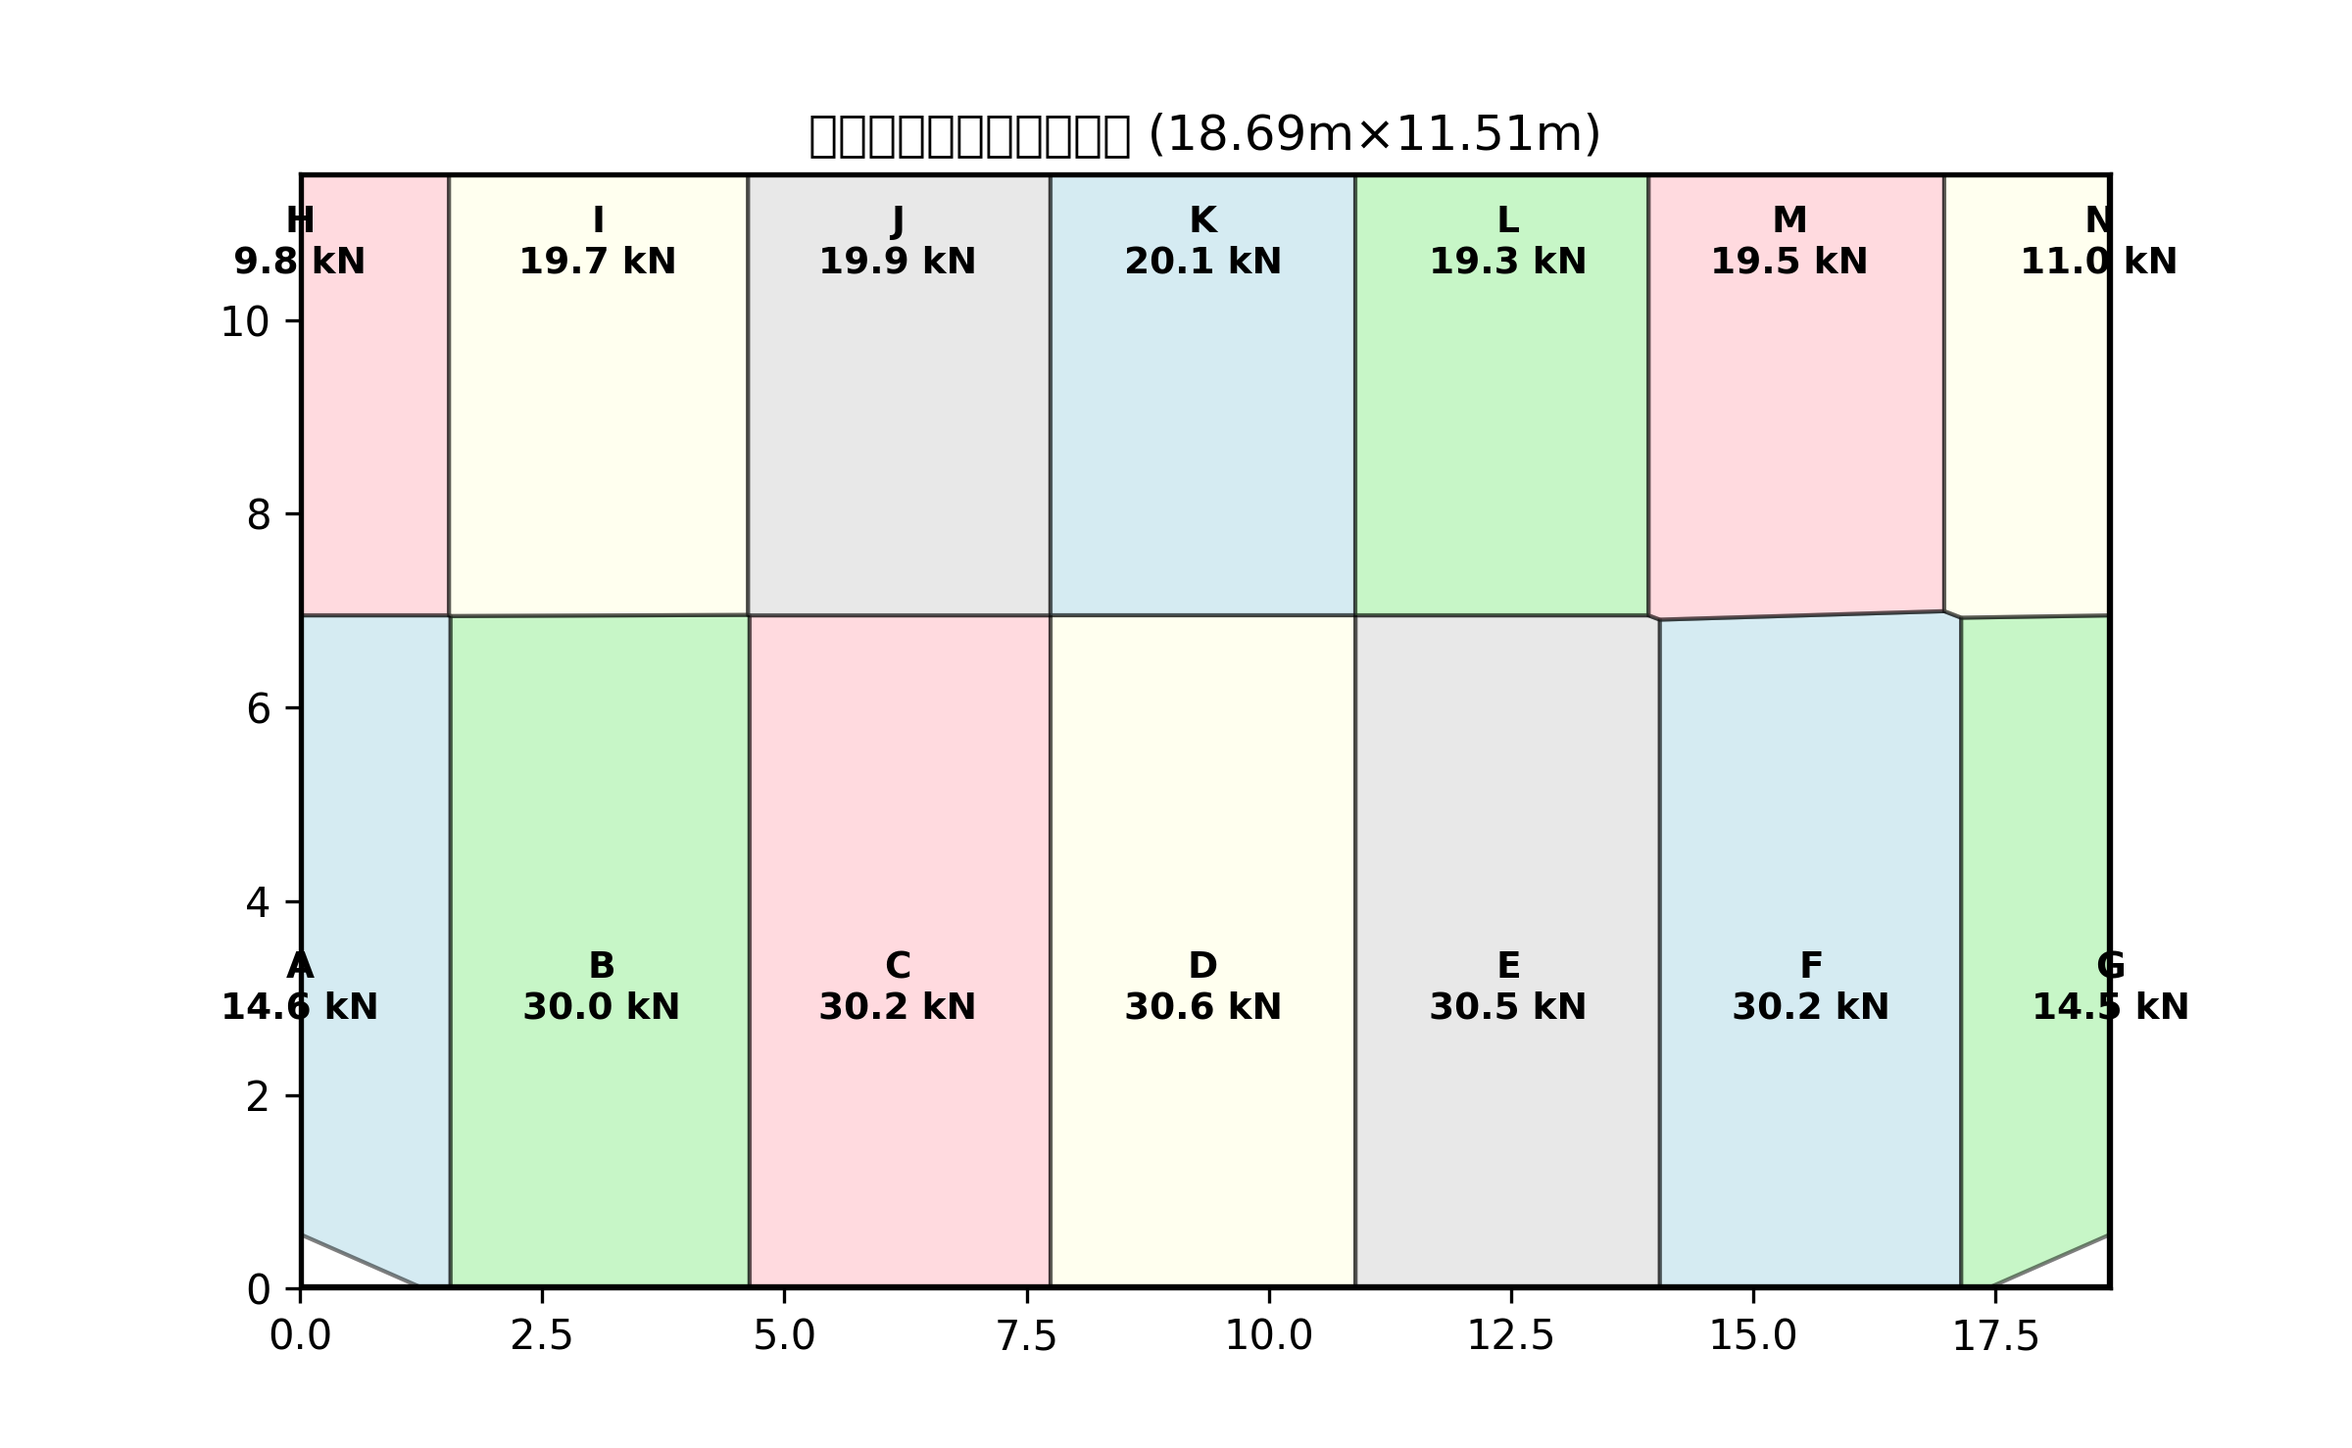
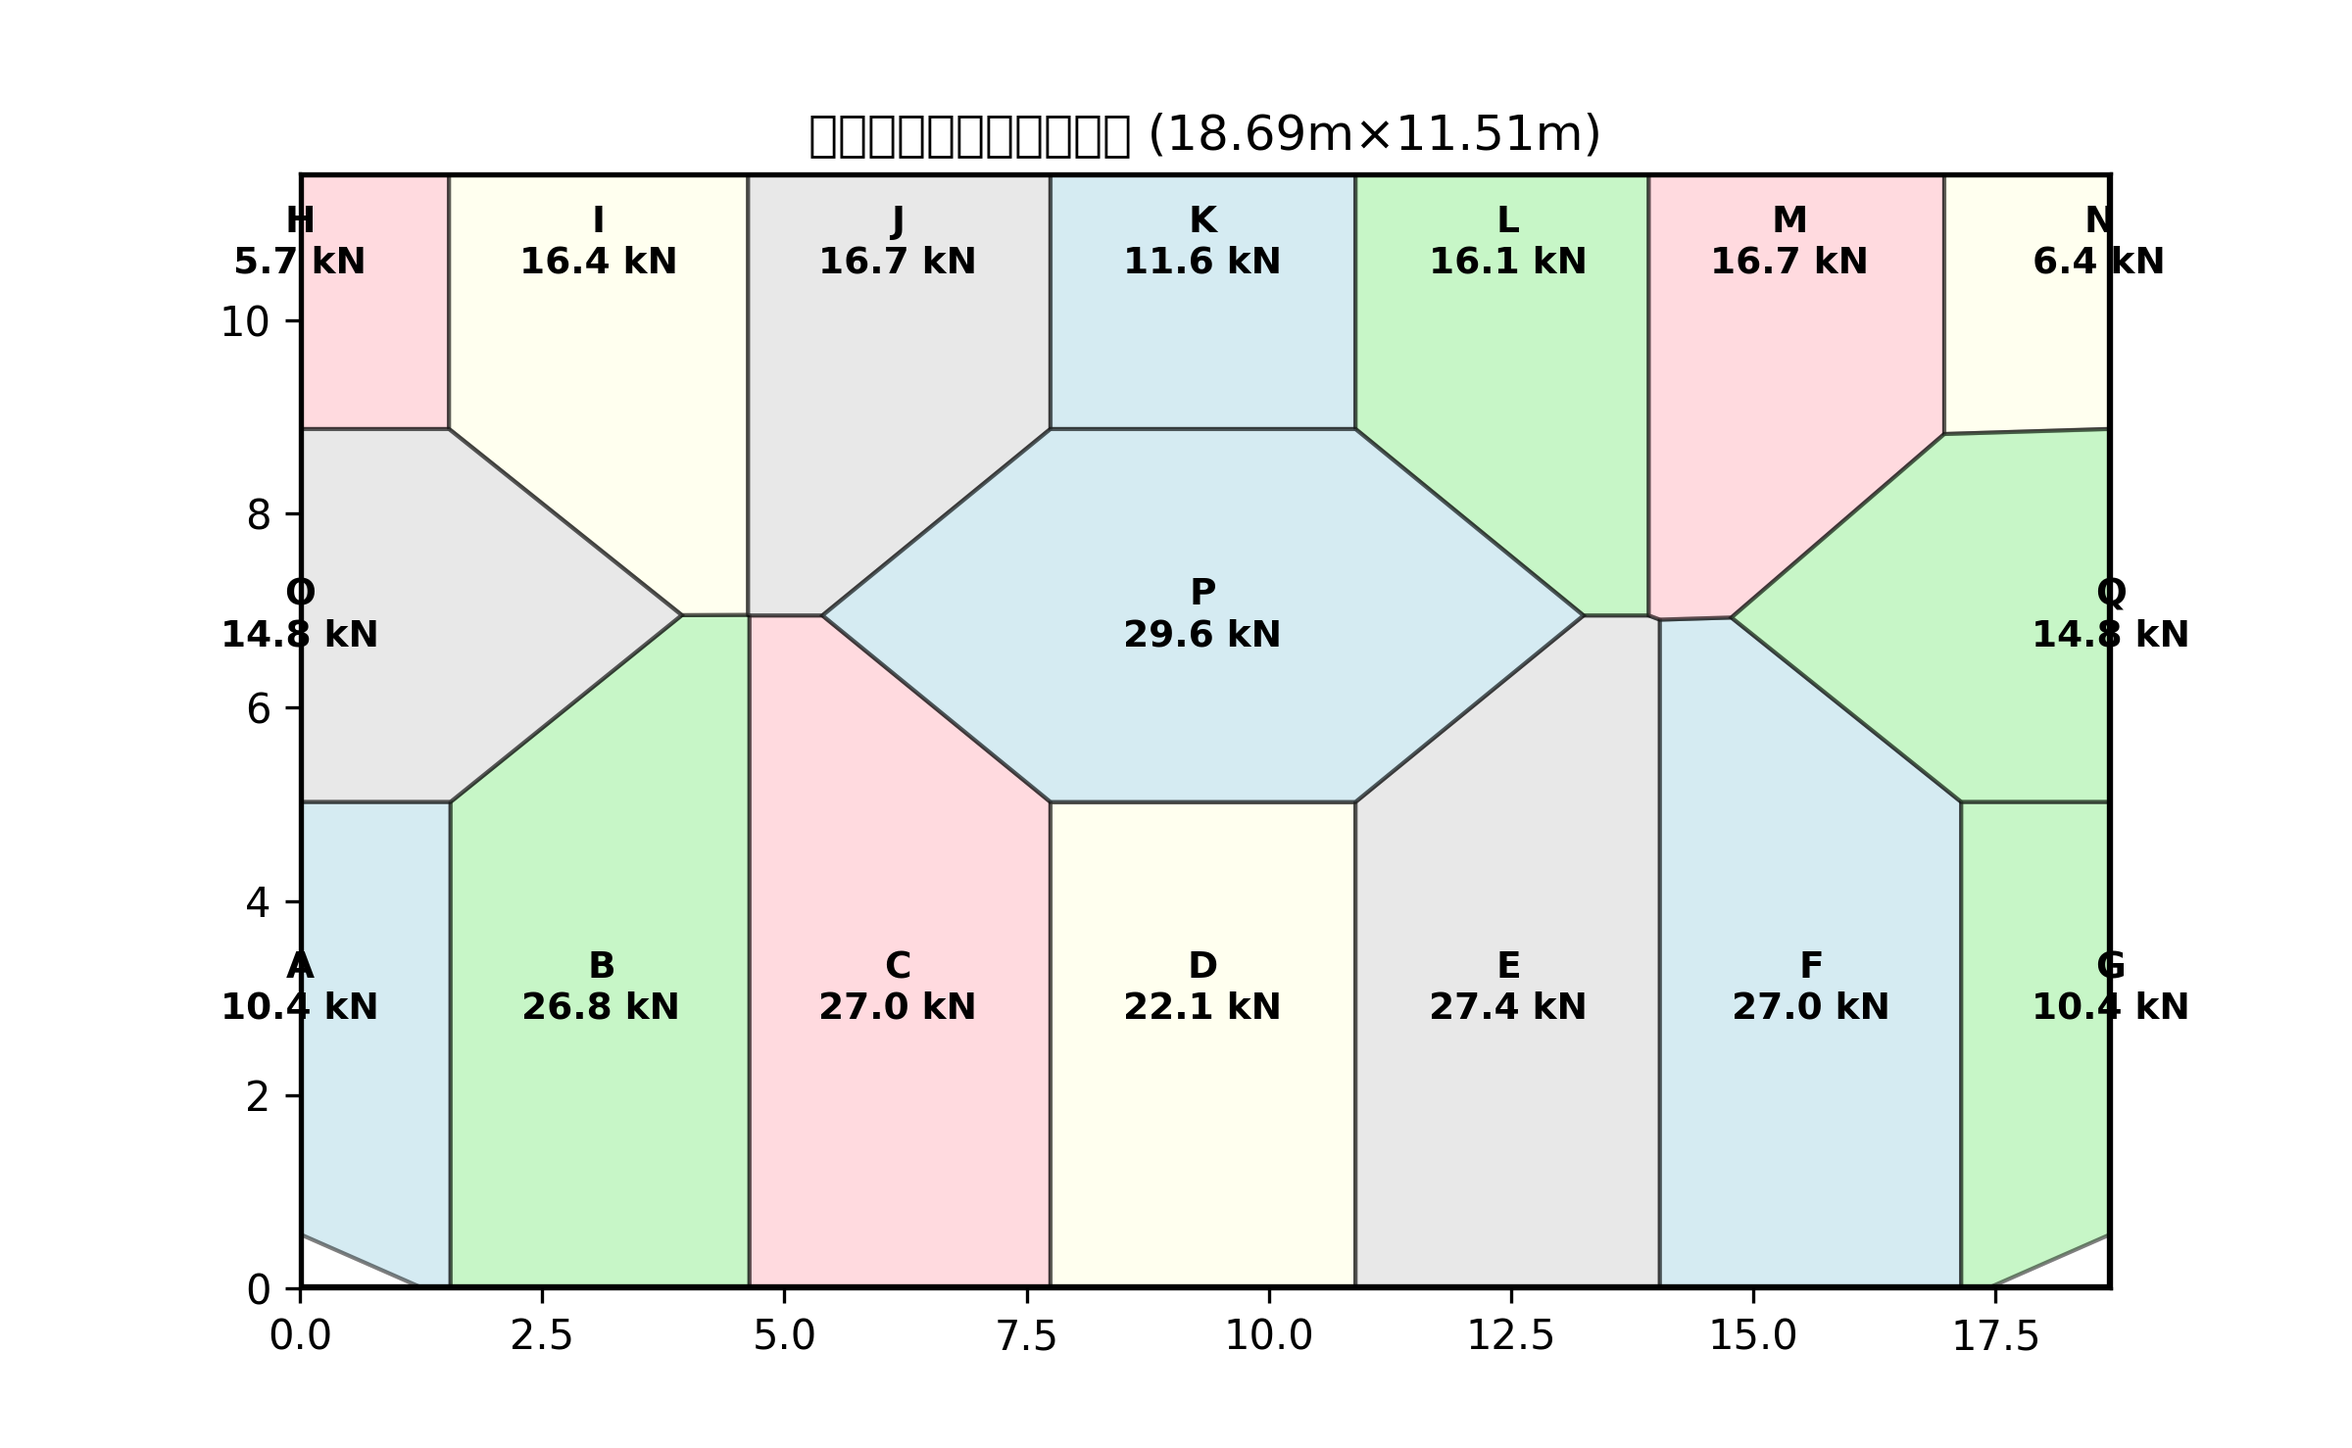
耐震評估

diff --git a/實驗.py b/實驗.py
@@ -1,0 +1,169 @@
+import matplotlib.pyplot as plt
+from shapely.geometry import Polygon, LineString, Point
+import numpy as np
+
+# -------------------------------
+# 1. 樓板與柱子設定
+# -------------------------------
+floor_boundary = Polygon([(0, 0), (18.69, 0), (18.69, 11.51), (0, 11.51)])
+columns = {
+    'A': (0, 3.1), 'B': (3.11, 3.1), 'C': (6.17, 3.1), 'D': (9.32, 3.1), 'E': (12.47, 3.1), 'F': (15.6, 3.1), 'G': (18.69, 3.1),
+    'H': (0, 10.8), 'I': (3.08, 10.8), 'J': (6.17, 10.8), 'K': (9.32, 10.8), 'L': (12.47, 10.8), 'M': (15.37, 10.8), 'N': (18.57, 10.8)
+} 
+ray_angles = [45, 135, 225, 315]  # 射線角度（度）
+
+
+# 畫樓板邊界
+x, y = floor_boundary.exterior.xy
+min_x, max_x = min(x), max(x)
+min_y, max_y = min(y), max(y)
+width = max_x - min_x
+height = max_y - min_y
+fig_w = 12
+fig_h = fig_w * (height / width)
+plt.figure(figsize=(fig_w, fig_h))
+plt.plot(x, y, 'k-', linewidth=2, label='Floor Boundary')
+
+# 畫柱子與射線，並儲存所有射線資訊
+all_rays = []  # (柱名, 起點, 角度, LineString)
+for name, (cx, cy) in columns.items():
+    plt.plot(cx, cy, 'ro')
+    plt.text(cx, cy, name, fontsize=12, ha='center', va='center', color='white', bbox=dict(facecolor='red', edgecolor='none', boxstyle='circle,pad=0.2'))
+    for angle in ray_angles:
+        rad = np.deg2rad(angle)
+        ray_length = 20
+        dx = np.cos(rad) * ray_length
+        dy = np.sin(rad) * ray_length
+        ray = LineString([(cx, cy), (cx + dx, cy + dy)])
+        intersection = ray.intersection(floor_boundary.boundary)
+        if intersection.is_empty:
+            continue
+        if intersection.geom_type == 'MultiPoint':
+            points = list(intersection.geoms)
+            points.sort(key=lambda p: Point(cx, cy).distance(p))
+            end_point = points[0]
+        else:
+            end_point = intersection
+        # 先暫存射線資訊，稍後決定終點
+        all_rays.append({
+            'col': name,
+            'start': (cx, cy),
+            'angle': angle,
+            'line': LineString([(cx, cy), (end_point.x, end_point.y)]),
+            'end_default': (end_point.x, end_point.y)
+        })
+
+# 計算所有射線的交點，並記錄每條射線最近的交點
+ray_stops = [None] * len(all_rays)
+for i in range(len(all_rays)):
+    ray1 = all_rays[i]
+    min_dist = None
+    min_point = None
+    for j in range(len(all_rays)):
+        if i == j:
+            continue
+        ray2 = all_rays[j]
+        if ray1['col'] == ray2['col']:
+            continue
+        inter = ray1['line'].intersection(ray2['line'])
+        if inter.is_empty or not isinstance(inter, Point):
+            continue
+        if not floor_boundary.contains(inter):
+            continue
+        dist = Point(ray1['start']).distance(inter)
+        if min_dist is None or dist < min_dist:
+            min_dist = dist
+            min_point = inter
+    if min_point is not None:
+        ray_stops[i] = (min_point.x, min_point.y)
+    else:
+        ray_stops[i] = all_rays[i]['end_default']
+
+# 畫射線（到交點或邊界）
+for i, ray in enumerate(all_rays):
+    sx, sy = ray['start']
+    ex, ey = ray_stops[i]
+    plt.plot([sx, ex], [sy, ey], 'b--', linewidth=1)
+    # 更新射線的實際終點
+    all_rays[i]['line'] = LineString([(sx, sy), (ex, ey)])
+
+# 找所有不同柱子的射線交點，並畫外平分線（遇到樓板邊界就停止）
+for i in range(len(all_rays)):
+    for j in range(i+1, len(all_rays)):
+        ray1 = all_rays[i]
+        ray2 = all_rays[j]
+        if ray1['col'] == ray2['col']:
+            continue  # 同柱不處理
+        inter = ray1['line'].intersection(ray2['line'])
+        if inter.is_empty or not isinstance(inter, Point):
+            continue
+        # 檢查交點是否在樓板內部
+        if not floor_boundary.contains(inter):
+            continue
+        # 外角平分線方向
+        a1 = ray1['angle'] % 360
+        a2 = ray2['angle'] % 360
+        v1 = np.array([np.cos(np.deg2rad(a1)), np.sin(np.deg2rad(a1))])
+        v2 = np.array([np.cos(np.deg2rad(a2)), np.sin(np.deg2rad(a2))])
+        bisect_vec = (+v1 + v2)
+        if np.linalg.norm(bisect_vec) < 1e-8:
+            bisect_vec = np.array([-v1[1], v1[0]])
+        bisect_vec = bisect_vec / np.linalg.norm(bisect_vec)
+        # 先設一個較長長度
+        bisect_length = 10
+        bx_far = inter.x + bisect_vec[0] * bisect_length
+        by_far = inter.y + bisect_vec[1] * bisect_length
+        bisect_line = LineString([(inter.x, inter.y), (bx_far, by_far)])
+        # 1. 與樓板邊界交點
+        bisect_inter = bisect_line.intersection(floor_boundary.boundary)
+        bisect_targets = []
+        if not bisect_inter.is_empty:
+            if bisect_inter.geom_type == 'MultiPoint':
+                bisect_targets += list(bisect_inter)
+            elif bisect_inter.geom_type == 'Point':
+                bisect_targets.append(bisect_inter)
+        # 2. 與其他交點的交點
+        # 先收集所有交點（排除自己）
+        all_cross_points = []
+        for m in range(len(all_rays)):
+            for n in range(m+1, len(all_rays)):
+                if (m == i and n == j) or (m == j and n == i):
+                    continue
+                rayA = all_rays[m]
+                rayB = all_rays[n]
+                if rayA['col'] == rayB['col']:
+                    continue
+                cross = rayA['line'].intersection(rayB['line'])
+                if cross.is_empty or not isinstance(cross, Point):
+                    continue
+                if not floor_boundary.contains(cross):
+                    continue
+                all_cross_points.append(cross)
+        # 計算外角平分線與這些交點的交點（其實就是檢查外角平分線是否會經過這些點）
+        for pt in all_cross_points:
+            # 向量投影法判斷pt是否在外角平分線上且方向正確
+            vec_to_pt = np.array([pt.x - inter.x, pt.y - inter.y])
+            proj = np.dot(vec_to_pt, bisect_vec)
+            if proj > 1e-8:  # 在外角平分線正方向上
+                # 並且在直線上（允許微小誤差）
+                perp_dist = np.linalg.norm(vec_to_pt - proj * bisect_vec)
+                if perp_dist < 1e-6:
+                    bisect_targets.append(pt)
+        # 取離交點最近的作為終點
+        if bisect_targets:
+            bisect_targets.sort(key=lambda p: Point(inter.x, inter.y).distance(p))
+            bx, by = bisect_targets[0].x, bisect_targets[0].y
+        else:
+            bx, by = bx_far, by_far
+        plt.plot([inter.x, bx], [inter.y, by], 'g-', linewidth=2, alpha=0.7)
+
+plt.axis('equal')
+plt.xlim(min(x) - 1, max(x) + 1)
+plt.ylim(min(y) - 1, max(y) + 1)
+plt.xlabel('X')
+plt.ylabel('Y')
+plt.title('Floor, Columns, and Rays')
+plt.legend()
+plt.tight_layout()
+plt.savefig('column_rays.png')
+plt.show()

diff --git a/gpt.py b/gpt.py
@@ -1,0 +1,161 @@
+import matplotlib.pyplot as plt
+from shapely.geometry import Polygon, LineString, Point
+import numpy as np
+
+# -------------------------------
+# 1. 樓板與柱子設定
+# -------------------------------
+floor_boundary = Polygon([(0, 0), (5, 0), (5, 10), (0, 10)])
+columns = {
+    'A': (1, 1), 'B': (4, 1), 'C': (1, 8), 'D': (4, 8)
+}
+ray_angles = [45, 135, 225, 315]  # 射線角度（度）
+
+# 畫樓板邊界
+x, y = floor_boundary.exterior.xy
+plt.figure(figsize=(6, 12))
+plt.plot(x, y, 'k-', linewidth=2, label='Floor Boundary')
+
+# 畫柱子與射線，並儲存所有射線資訊
+all_rays = []  # (柱名, 起點, 角度, LineString)
+for name, (cx, cy) in columns.items():
+    plt.plot(cx, cy, 'ro')
+    plt.text(cx, cy, name, fontsize=12, ha='center', va='center', color='white', bbox=dict(facecolor='red', edgecolor='none', boxstyle='circle,pad=0.2'))
+    for angle in ray_angles:
+        rad = np.deg2rad(angle)
+        ray_length = 20
+        dx = np.cos(rad) * ray_length
+        dy = np.sin(rad) * ray_length
+        ray = LineString([(cx, cy), (cx + dx, cy + dy)])
+        intersection = ray.intersection(floor_boundary.boundary)
+        if intersection.is_empty:
+            continue
+        if intersection.geom_type == 'MultiPoint':
+            points = list(intersection)
+            points.sort(key=lambda p: Point(cx, cy).distance(p))
+            end_point = points[0]
+        else:
+            end_point = intersection
+        # 先暫存射線資訊，稍後決定終點
+        all_rays.append({
+            'col': name,
+            'start': (cx, cy),
+            'angle': angle,
+            'line': LineString([(cx, cy), (end_point.x, end_point.y)]),
+            'end_default': (end_point.x, end_point.y)
+        })
+
+# 計算所有射線的交點，並記錄每條射線最近的交點
+ray_stops = [None] * len(all_rays)
+for i in range(len(all_rays)):
+    ray1 = all_rays[i]
+    min_dist = None
+    min_point = None
+    for j in range(len(all_rays)):
+        if i == j:
+            continue
+        ray2 = all_rays[j]
+        if ray1['col'] == ray2['col']:
+            continue
+        inter = ray1['line'].intersection(ray2['line'])
+        if inter.is_empty or not isinstance(inter, Point):
+            continue
+        if not floor_boundary.contains(inter):
+            continue
+        dist = Point(ray1['start']).distance(inter)
+        if min_dist is None or dist < min_dist:
+            min_dist = dist
+            min_point = inter
+    if min_point is not None:
+        ray_stops[i] = (min_point.x, min_point.y)
+    else:
+        ray_stops[i] = all_rays[i]['end_default']
+
+# 畫射線（到交點或邊界）
+for i, ray in enumerate(all_rays):
+    sx, sy = ray['start']
+    ex, ey = ray_stops[i]
+    plt.plot([sx, ex], [sy, ey], 'b--', linewidth=1)
+    # 更新射線的實際終點
+    all_rays[i]['line'] = LineString([(sx, sy), (ex, ey)])
+
+# 找所有不同柱子的射線交點，並畫外平分線（遇到樓板邊界就停止）
+for i in range(len(all_rays)):
+    for j in range(i+1, len(all_rays)):
+        ray1 = all_rays[i]
+        ray2 = all_rays[j]
+        if ray1['col'] == ray2['col']:
+            continue  # 同柱不處理
+        inter = ray1['line'].intersection(ray2['line'])
+        if inter.is_empty or not isinstance(inter, Point):
+            continue
+        # 檢查交點是否在樓板內部
+        if not floor_boundary.contains(inter):
+            continue
+        # 外角平分線方向
+        a1 = ray1['angle'] % 360
+        a2 = ray2['angle'] % 360
+        v1 = np.array([np.cos(np.deg2rad(a1)), np.sin(np.deg2rad(a1))])
+        v2 = np.array([np.cos(np.deg2rad(a2)), np.sin(np.deg2rad(a2))])
+        bisect_vec = (+v1 + v2)
+        if np.linalg.norm(bisect_vec) < 1e-8:
+            bisect_vec = np.array([-v1[1], v1[0]])
+        bisect_vec = bisect_vec / np.linalg.norm(bisect_vec)
+        # 先設一個較長長度
+        bisect_length = 10
+        bx_far = inter.x + bisect_vec[0] * bisect_length
+        by_far = inter.y + bisect_vec[1] * bisect_length
+        bisect_line = LineString([(inter.x, inter.y), (bx_far, by_far)])
+        # 1. 與樓板邊界交點
+        bisect_inter = bisect_line.intersection(floor_boundary.boundary)
+        bisect_targets = []
+        if not bisect_inter.is_empty:
+            if bisect_inter.geom_type == 'MultiPoint':
+                bisect_targets += list(bisect_inter)
+            elif bisect_inter.geom_type == 'Point':
+                bisect_targets.append(bisect_inter)
+        # 2. 與其他交點的交點
+        # 先收集所有交點（排除自己）
+        all_cross_points = []
+        for m in range(len(all_rays)):
+            for n in range(m+1, len(all_rays)):
+                if (m == i and n == j) or (m == j and n == i):
+                    continue
+                rayA = all_rays[m]
+                rayB = all_rays[n]
+                if rayA['col'] == rayB['col']:
+                    continue
+                cross = rayA['line'].intersection(rayB['line'])
+                if cross.is_empty or not isinstance(cross, Point):
+                    continue
+                if not floor_boundary.contains(cross):
+                    continue
+                all_cross_points.append(cross)
+        # 計算外角平分線與這些交點的交點（其實就是檢查外角平分線是否會經過這些點）
+        for pt in all_cross_points:
+            # 向量投影法判斷pt是否在外角平分線上且方向正確
+            vec_to_pt = np.array([pt.x - inter.x, pt.y - inter.y])
+            proj = np.dot(vec_to_pt, bisect_vec)
+            if proj > 1e-8:  # 在外角平分線正方向上
+                # 並且在直線上（允許微小誤差）
+                perp_dist = np.linalg.norm(vec_to_pt - proj * bisect_vec)
+                if perp_dist < 1e-6:
+                    bisect_targets.append(pt)
+        # 取離交點最近的作為終點
+        if bisect_targets:
+            bisect_targets.sort(key=lambda p: Point(inter.x, inter.y).distance(p))
+            bx, by = bisect_targets[0].x, bisect_targets[0].y
+        else:
+            bx, by = bx_far, by_far
+        plt.plot([inter.x, bx], [inter.y, by], 'g-', linewidth=2, alpha=0.7)
+
+plt.axis('equal')
+plt.xlim(-1, 6)
+plt.ylim(-1, 11)
+plt.xlabel('X')
+plt.ylabel('Y')
+plt.title('Floor, Columns, and Rays')
+plt.legend()
+plt.tight_layout()
+plt.savefig('column_rays.png')
+plt.show()

diff --git a/hw2.py b/hw2.py
@@ -27,9 +27,9 @@ columns = {
     'L': (12.47, 10.8),
     'M': (15.37, 10.8),
     'N': (18.57, 10.8),
-    #'O': (0, 6.95),
-    #'P': (9.32, 6.95),
-    #'Q': (18.69, 6.95)  
+    'O': (0, 6.95),
+    'P': (9.32, 6.95),
+    'Q': (18.69, 6.95)  
 }
 
 # ==============================================
